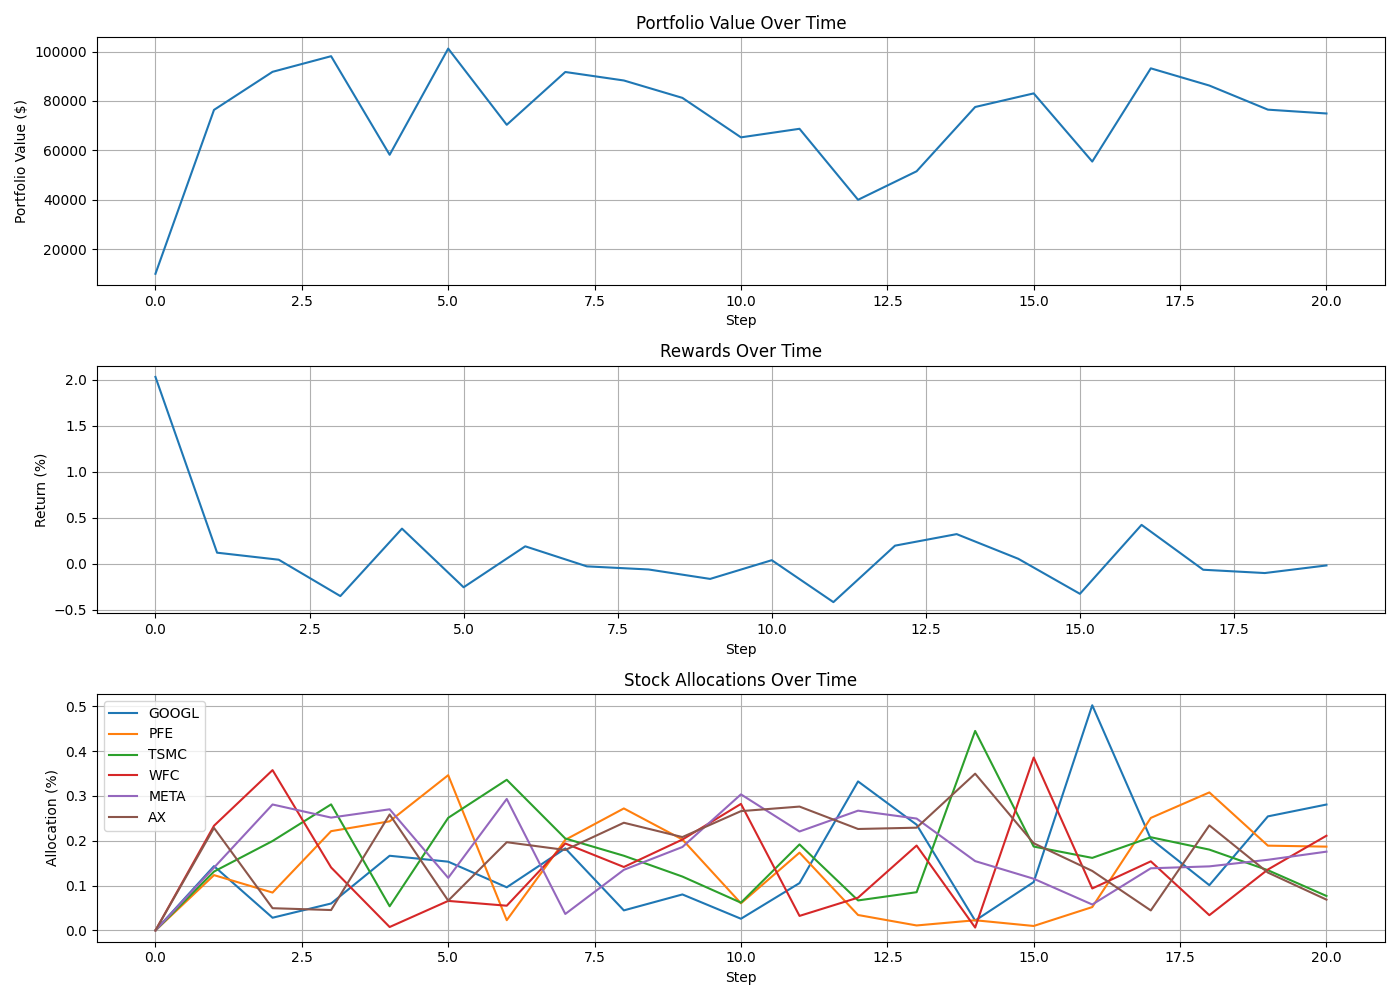
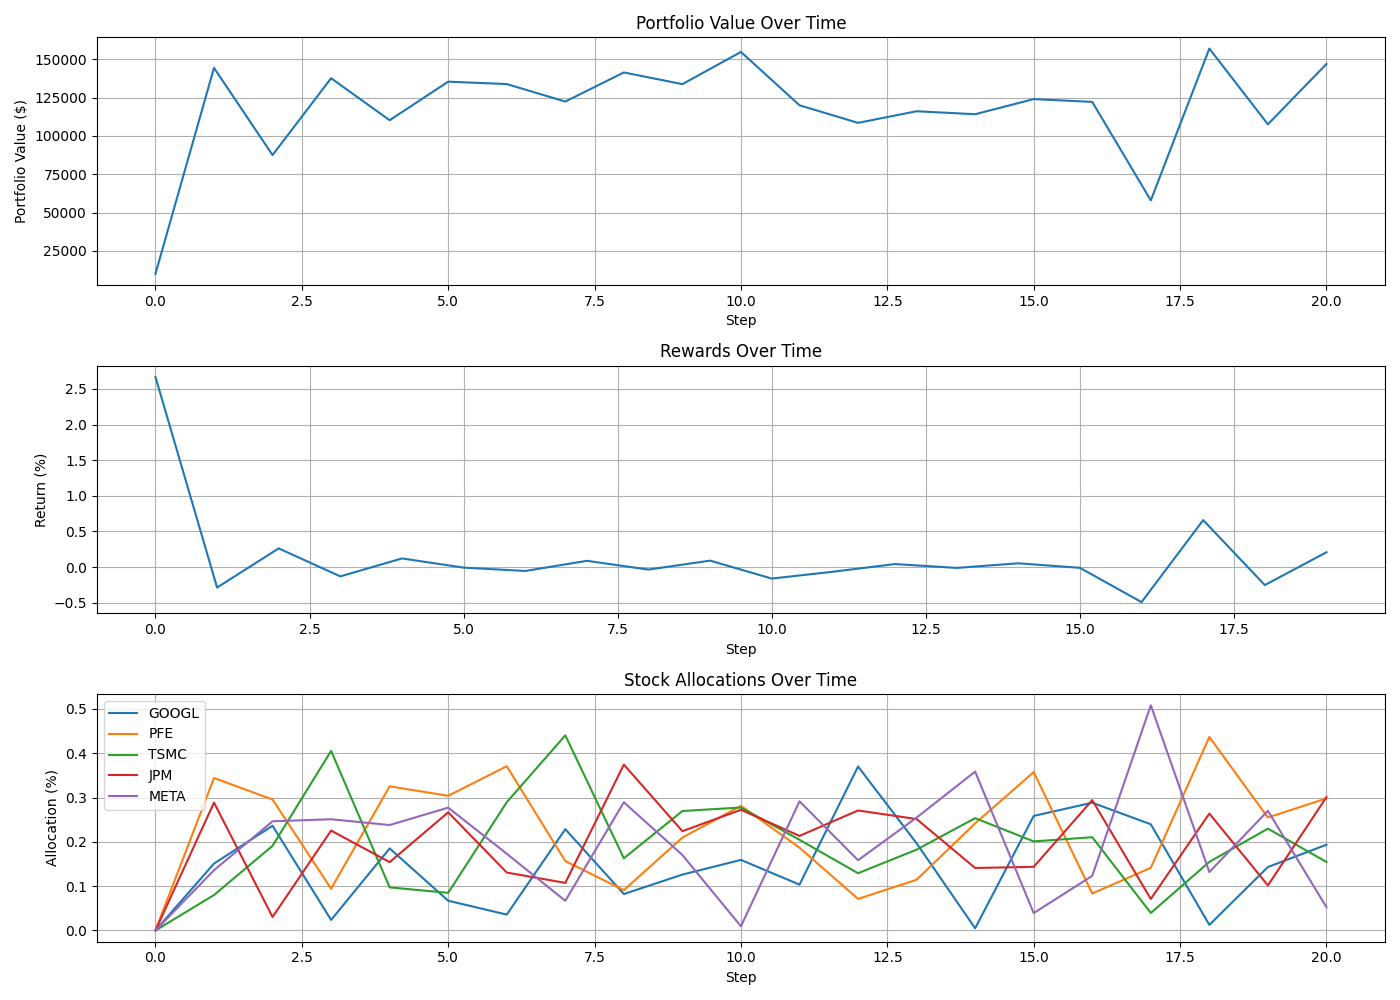
Update to ageny.py file with updated test script

diff --git a/portfolio_rl/models/dqn/agent.py b/portfolio_rl/models/dqn/agent.py
@@ -286,15 +286,29 @@ def train_dqn_agent(
     episode_rewards = []
 
     for episode in range(n_episodes):
-        state = env.reset()
+        # Reset environment (handle both old and new gym API)
+        reset_result = env.reset()
+        if isinstance(reset_result, tuple):
+            state, _ = reset_result  # New gym API returns (obs, info)
+        else:
+            state = reset_result     # Old gym API returns just obs
+
         episode_reward = 0
 
         for step in range(max_steps):
             # Select action
             action = agent.select_action(state)
 
-            # Take action
-            next_state, reward, done, _ = env.step(action)
+            # Take action (handle both old and new gym API)
+            step_result = env.step(action)
+
+            if len(step_result) == 4:
+                # Old gym API: (next_state, reward, done, info)
+                next_state, reward, done, _ = step_result
+            else:
+                # New gym API: (next_state, reward, terminated, truncated, info)
+                next_state, reward, terminated, truncated, _ = step_result
+                done = terminated or truncated
 
             # Store experience
             agent.replay_buffer.add(state, action, reward, next_state, done)
@@ -429,9 +443,30 @@ def test_dqn_agent():
         )
 
         # Initialize state to determine state dimension
-        state = environment.reset()
+        reset_result = environment.reset()
+        if isinstance(reset_result, tuple):
+            state, _ = reset_result  # New gym API returns (obs, info)
+        else:
+            state = reset_result     # Old gym API returns just obs
+
         state_dim = len(state)
-        action_dim = 7  # Based on your _action_to_allocation method
+
+        # Determine action dimension from environment's action space
+        if hasattr(environment, 'action_space'):
+            if hasattr(environment.action_space, 'n'):
+                # Discrete action space
+                action_dim = environment.action_space.n
+            elif hasattr(environment.action_space, 'shape'):
+                # Continuous action space
+                action_dim = environment.action_space.shape[0]
+            else:
+                # Fallback to default
+                action_dim = 7
+                print("Warning: Could not determine action dimension from environment, using default value of 7")
+        else:
+            # Fallback to default
+            action_dim = 7
+            print("Warning: Environment has no action_space attribute, using default action dimension of 7")
 
         print(f"State dimension: {state_dim}")
         print(f"Action dimension: {action_dim}")
@@ -442,8 +477,38 @@ def test_dqn_agent():
 
         # Test a few steps
         for step in range(5):
+            # Select action
             action = agent.select_action(state)
-            next_state, reward, done, info = environment.step(action)
+
+            # Check if action is compatible with environment's action space
+            if hasattr(environment, 'action_space'):
+                if hasattr(environment.action_space, 'contains'):
+                    # For continuous action spaces, we need to convert the discrete action
+                    # to a continuous action vector
+                    if isinstance(action, (int, np.integer)) and hasattr(environment.action_space, 'shape'):
+                        # Convert discrete action to continuous action vector
+                        # This is a simple example; you might need a more sophisticated mapping
+                        continuous_action = np.zeros(environment.action_space.shape[0])
+                        if action < environment.action_space.shape[0]:
+                            continuous_action[action] = 1.0
+                        else:
+                            # Equal allocation as fallback
+                            continuous_action = np.ones(environment.action_space.shape[0]) / environment.action_space.shape[0]
+
+                        print(f"Converting discrete action {action} to continuous action {continuous_action}")
+                        action = continuous_action
+
+            # Take action (handle both old and new gym API)
+            step_result = environment.step(action)
+
+            if len(step_result) == 4:
+                # Old gym API: (next_state, reward, done, info)
+                next_state, reward, done, info = step_result
+            else:
+                # New gym API: (next_state, reward, terminated, truncated, info)
+                next_state, reward, terminated, truncated, info = step_result
+                done = terminated or truncated
+
             print(
                 f"Step {step + 1} - Action: {action}, Reward: {reward:.4f}, Portfolio Value: {info['portfolio_value']:.2f}, Done: {done}")
             state = next_state

diff --git a/portfolio_rl/models/dqn/env_test_script.py b/portfolio_rl/models/dqn/env_test_script.py
@@ -147,7 +147,7 @@ def test_environment(seed=None, max_steps=20):
         np.random.seed(seed)
         random.seed(seed)
     # Define test parameters
-    tickers = ['GOOGL', 'PFE', 'TSMC', 'WFC', "META", "AX"]  # Based on available ratio files
+    tickers = ['GOOGL', 'PFE', 'TSMC', 'JPM', "META"]  # Based on available ratio files
 
     # Load real data
     print("Loading real data...")
